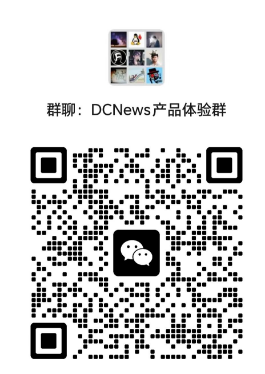
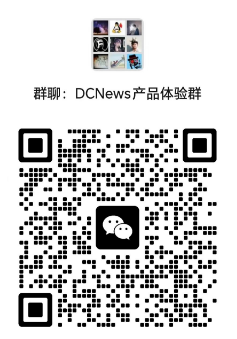
📃 docs: 更新二维码

diff --git a/README.MD b/README.MD
@@ -110,7 +110,7 @@
 </details>
 
 ## DCNews 社区
-> ![Group](/Group.png)
+> ![Group](./Group.png)
 
 ## 托管版 
 > 使用DCNews提供的机器人，立即同步！<br> <a href="https://dcnews.gitbook.io/ru-he-shi-yong-tuo-guan-ban/xiao-bai-kuai-su-jie-ru-dcnews-tuo-guan-ban" target="_blank" alt="托管版">点击查看说明</a>
